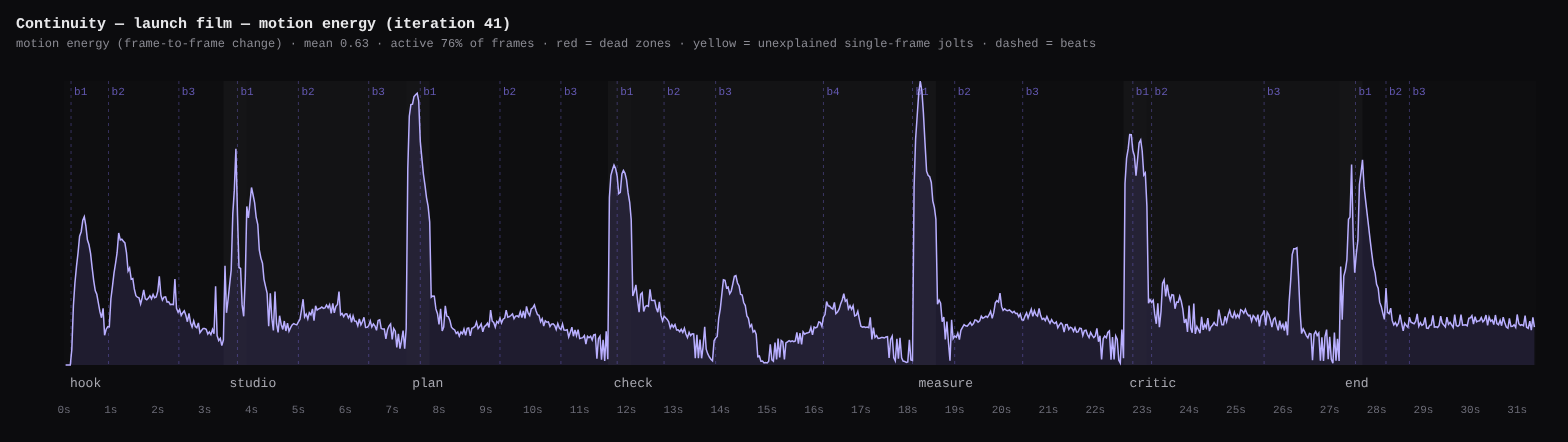
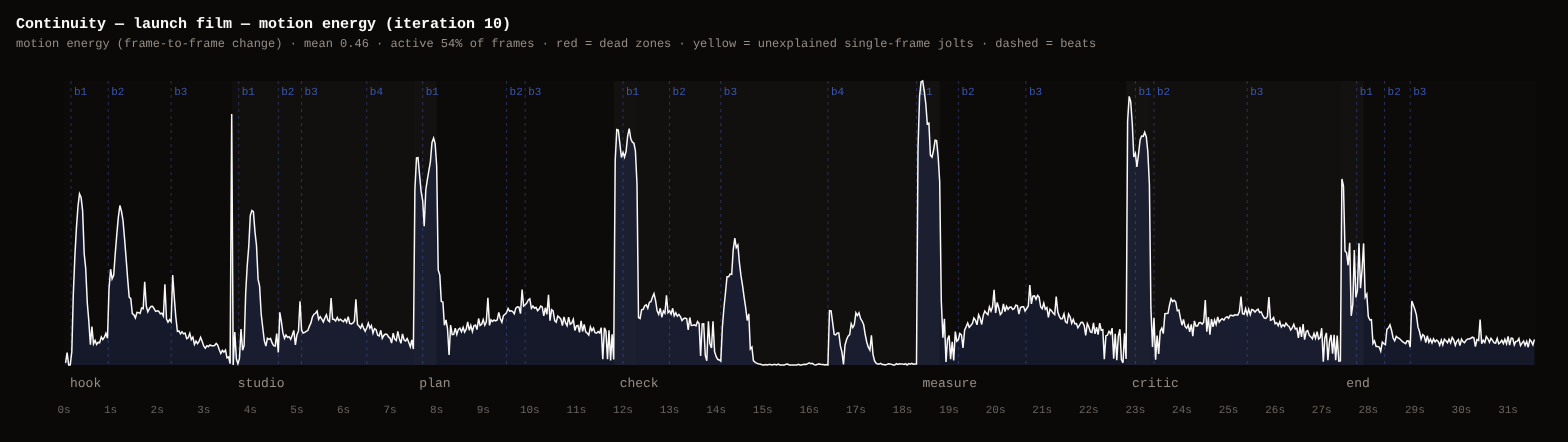
render QC and motion analysis read litt's still, dark frames correctly
- energy: ffmpeg prints near-zero frame differences in scientific notation
  (6.94444e-05); the parser dropped the exponent and read 6.94, so a truly
  still hold showed up as single-frame jolts. Parse moved to parseEnergy()
  with a test.
- black-frames QC: litt-dark's canvas is itself near-black and its frames
  are airy, so a frame counts as black only when 99.8% of it is (an empty
  canvas still fails; one statement on it passes).
- example-launch: final render (31.6s, QC clean), motion chart (0 dead
  zones, 0 jolts) and report.

Claude-Session: https://claude.ai/code/session_017zGGjVx1NAnrGbeLVvrENe

diff --git a/src/cli/lib/ffmpeg.ts b/src/cli/lib/ffmpeg.ts
@@ -52,7 +52,10 @@ export async function probe(file: string): Promise<ProbeInfo> {
 /**
  * Render QC on the encoded file: black segments, frozen segments, duration and
  * resolution drift. Dark themes legitimately open on near-black frames, so a
- * short black lead-in is info, not an error.
+ * short black lead-in is info, not an error. litt-dark's canvas is itself
+ * near-black and its frames are airy (one statement can cover ~1% of the
+ * pixels), so a frame counts as black only when 99.8% of it is: an empty
+ * canvas fails, a word on it passes.
  */
 export async function qc(file: string, expect: { duration: number; width: number; height: number; fps: number }): Promise<Finding[]> {
   const findings: Finding[] = [];
@@ -65,7 +68,7 @@ export async function qc(file: string, expect: { duration: number; width: number
   }
   const r = await ffmpeg([
     "-hide_banner", "-nostats", "-i", file,
-    "-vf", "blackdetect=d=0.25:pic_th=0.985,freezedetect=n=-60dB:d=1.5",
+    "-vf", "blackdetect=d=0.25:pic_th=0.998,freezedetect=n=-60dB:d=1.5",
     "-an", "-f", "null", "-",
   ]);
   for (const m of r.stderr.matchAll(/black_start:([\d.]+) black_end:([\d.]+) black_duration:([\d.]+)/g)) {
@@ -90,7 +93,7 @@ export async function qc(file: string, expect: { duration: number; width: number
       severity: dur >= 3 ? "warning" : "info",
       time: start,
       message: `${dur.toFixed(2)}s with no visible change from ${start.toFixed(2)}s`,
-      suggestion: dur >= 3 ? "add ambient life (camera drift, loop on bg/glow) or tighten the hold" : undefined,
+      suggestion: dur >= 3 ? "let the camera carry the hold (a push of 3% or less) or tighten it" : undefined,
     });
   });
   return findings;

diff --git a/src/cli/lib/energy.ts b/src/cli/lib/energy.ts
@@ -10,6 +10,20 @@ export interface EnergyCurve {
   baseline: number;
 }
 
+/** [time, YAVG] pairs from ffmpeg's `metadata=print` output. */
+export function parseEnergy(text: string): Array<[number, number]> {
+  const points: Array<[number, number]> = [];
+  let t = 0;
+  for (const line of text.split("\n")) {
+    const m = /pts_time:([\d.]+)/.exec(line);
+    if (m) t = Number(m[1]);
+    // ffmpeg prints near-zero energy in scientific notation (6.94444e-05): keep the exponent.
+    const y = /YAVG=([\d.]+(?:e[-+]?\d+)?)/i.exec(line);
+    if (y) points.push([t, Number(y[1])]);
+  }
+  return points;
+}
+
 /** Frame-to-frame change across the encoded video — the edit's motion "cardiogram". */
 export async function energyCurve(file: string): Promise<EnergyCurve> {
   const r = await ffmpeg([
@@ -17,15 +31,7 @@ export async function energyCurve(file: string): Promise<EnergyCurve> {
     "-vf", "scale=320:-2,tblend=all_mode=difference,signalstats,metadata=print:key=lavfi.signalstats.YAVG:file=-",
     "-f", "null", "-",
   ]);
-  const text = r.stdout + r.stderr;
-  const points: Array<[number, number]> = [];
-  let t = 0;
-  for (const line of text.split("\n")) {
-    const m = /pts_time:([\d.]+)/.exec(line);
-    if (m) t = Number(m[1]);
-    const y = /YAVG=([\d.]+)/.exec(line);
-    if (y) points.push([t, Number(y[1])]);
-  }
+  const points = parseEnergy(r.stdout + r.stderr);
   const sorted = points.map((p) => p[1]).sort((a, b) => a - b);
   const baseline = sorted[Math.floor(sorted.length * 0.1)] ?? 0;
   const fps = points.length > 1 ? Math.round(1 / (points[1][0] - points[0][0])) : 30;

diff --git a/tests/motion.test.ts b/tests/motion.test.ts
@@ -4,6 +4,7 @@ import { cubicBezier, easeFn, isLinear, springPosition, springSettleTime } from 
 import { compileScene, formatCounter, mergeVariationSettings, resolveScene, sampleScene, styleOf } from "../src/motion/evaluate.js";
 import { bounceOf, eases, readTime, spring, visualOf } from "../src/motion/tokens.js";
 import { transitionTweens } from "../src/motion/transitions.js";
+import { parseEnergy } from "../src/cli/lib/energy.js";
 import type { SceneTimeline } from "../src/motion/types.js";
 
 const scene = (mb: MotionBuilder): SceneTimeline => ({
@@ -231,5 +232,12 @@ describe("tokens", () => {
   it("read time grows with copy length and has a floor", () => {
     expect(readTime(5)).toBeCloseTo(0.83);
     expect(readTime(34)).toBeCloseTo(2.4);
+  });
+});
+
+describe("motion energy", () => {
+  it("keeps the exponent of near-zero energies (a still hold is not a jolt)", () => {
+    const text = "frame:1 pts:1 pts_time:15.3\nlavfi.signalstats.YAVG=0\nframe:2 pts:2 pts_time:15.3333\nlavfi.signalstats.YAVG=6.94444e-05\nframe:3 pts:3 pts_time:15.3667\nlavfi.signalstats.YAVG=12.5\n";
+    expect(parseEnergy(text)).toEqual([[15.3, 0], [15.3333, 6.94444e-5], [15.3667, 12.5]]);
   });
 });

diff --git a/projects/example-launch/.continuity/report.md b/projects/example-launch/.continuity/report.md
@@ -17,5 +17,6 @@
 ## Iteration #10
 
 - Gate: ✅ pass — 0 errors, 0 warnings
+- Render: `out/example-launch/example-launch-23f2caad7fc1.mp4`
 
 ![contact sheet](sheet.png)
